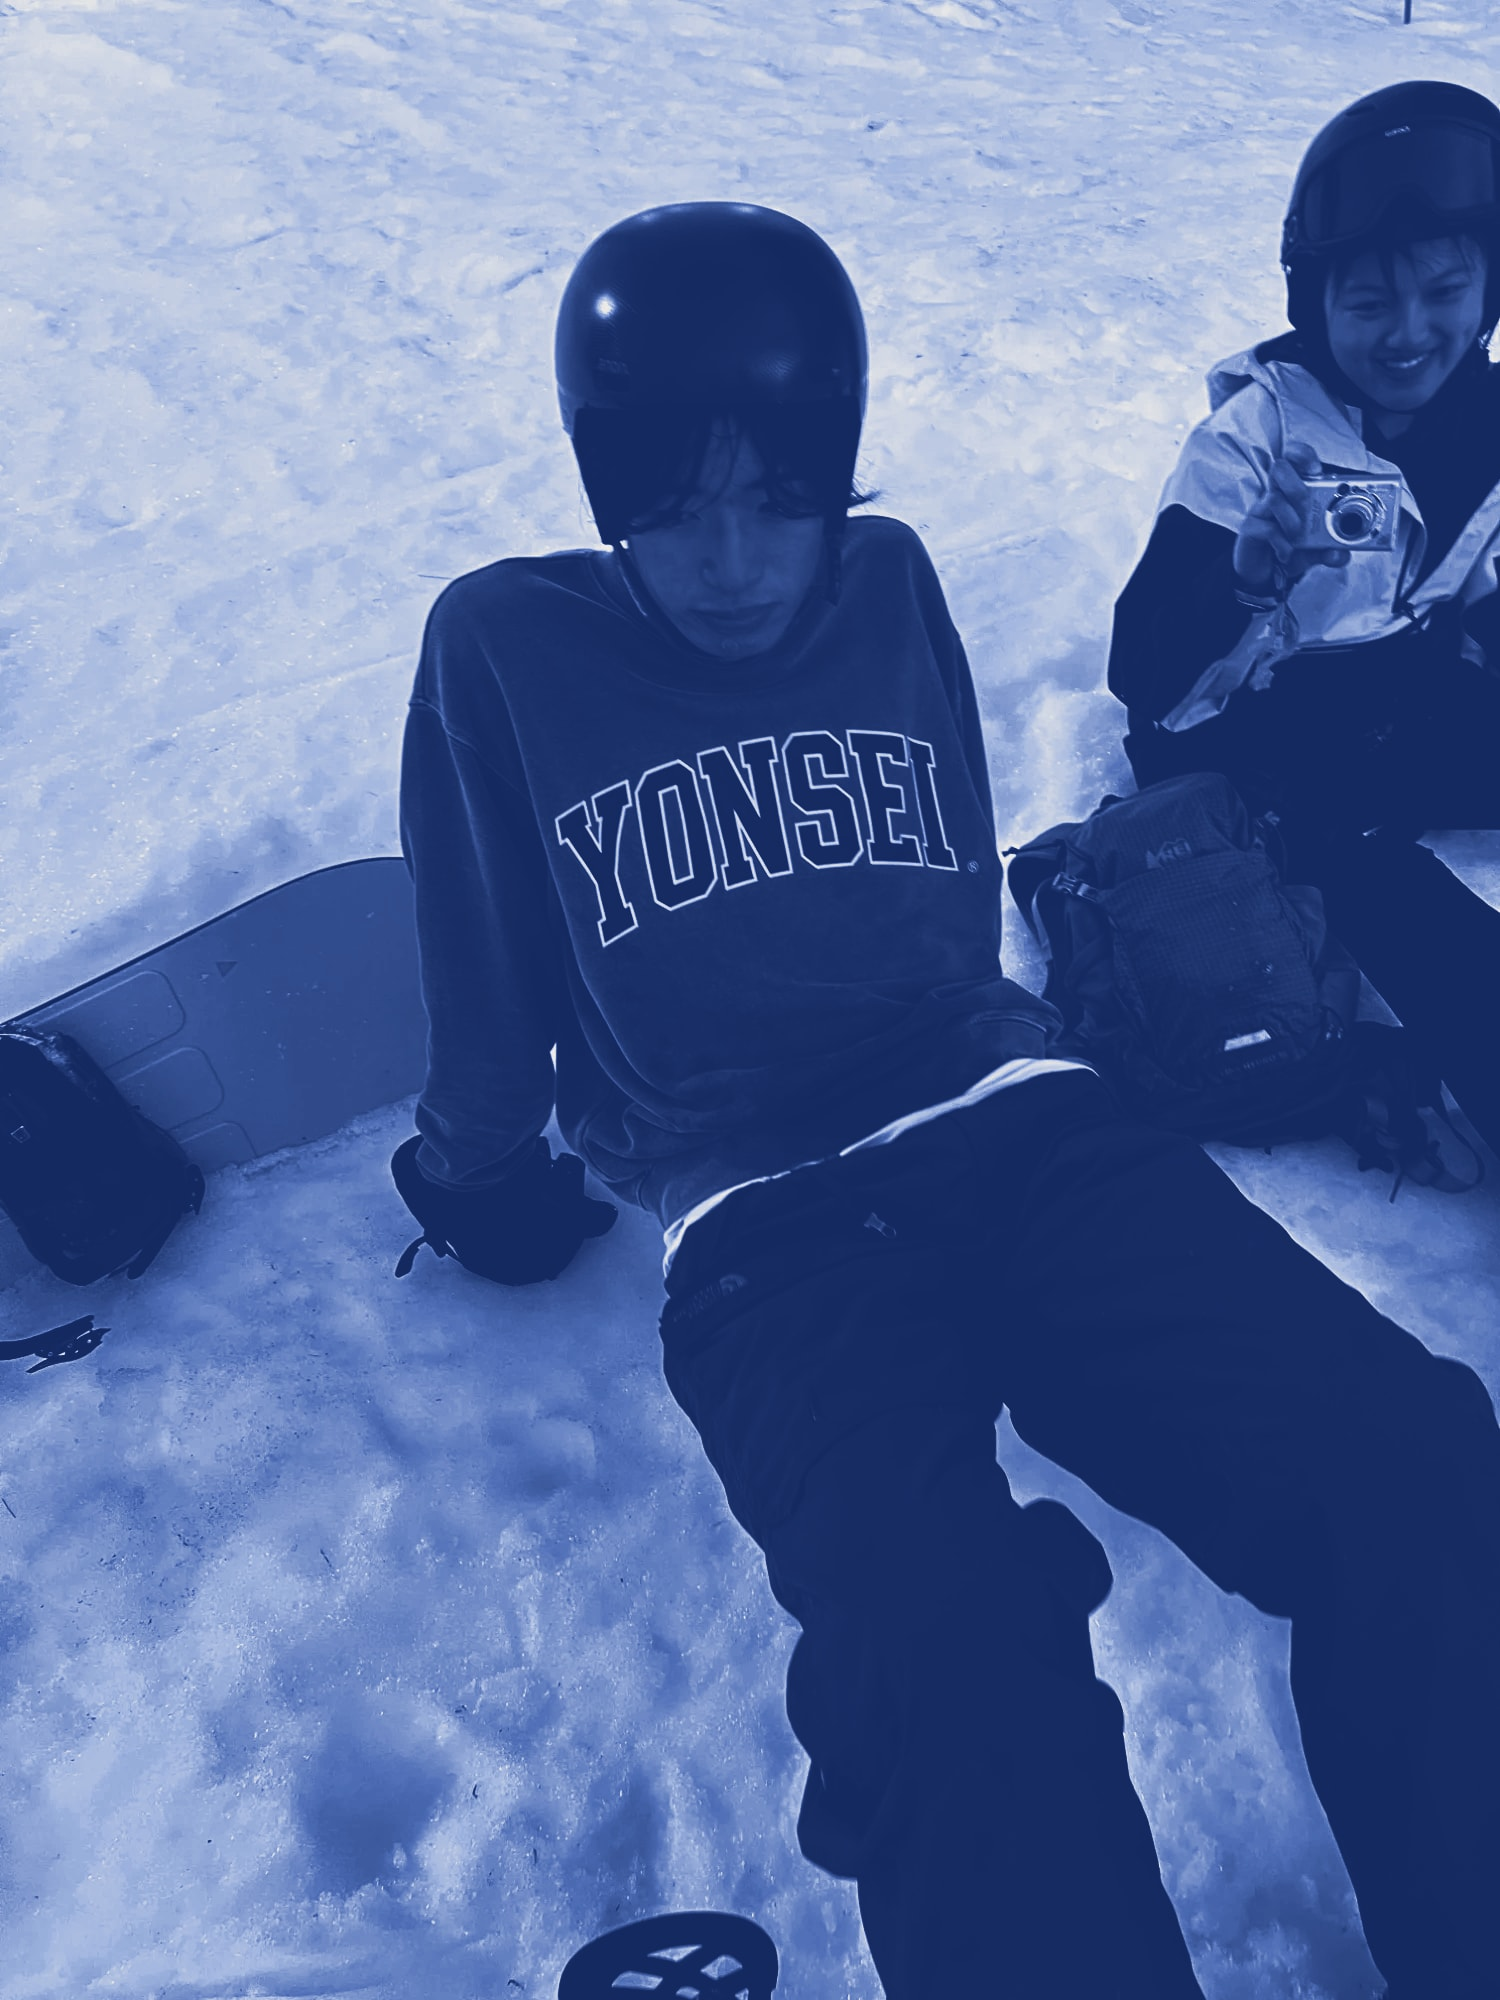
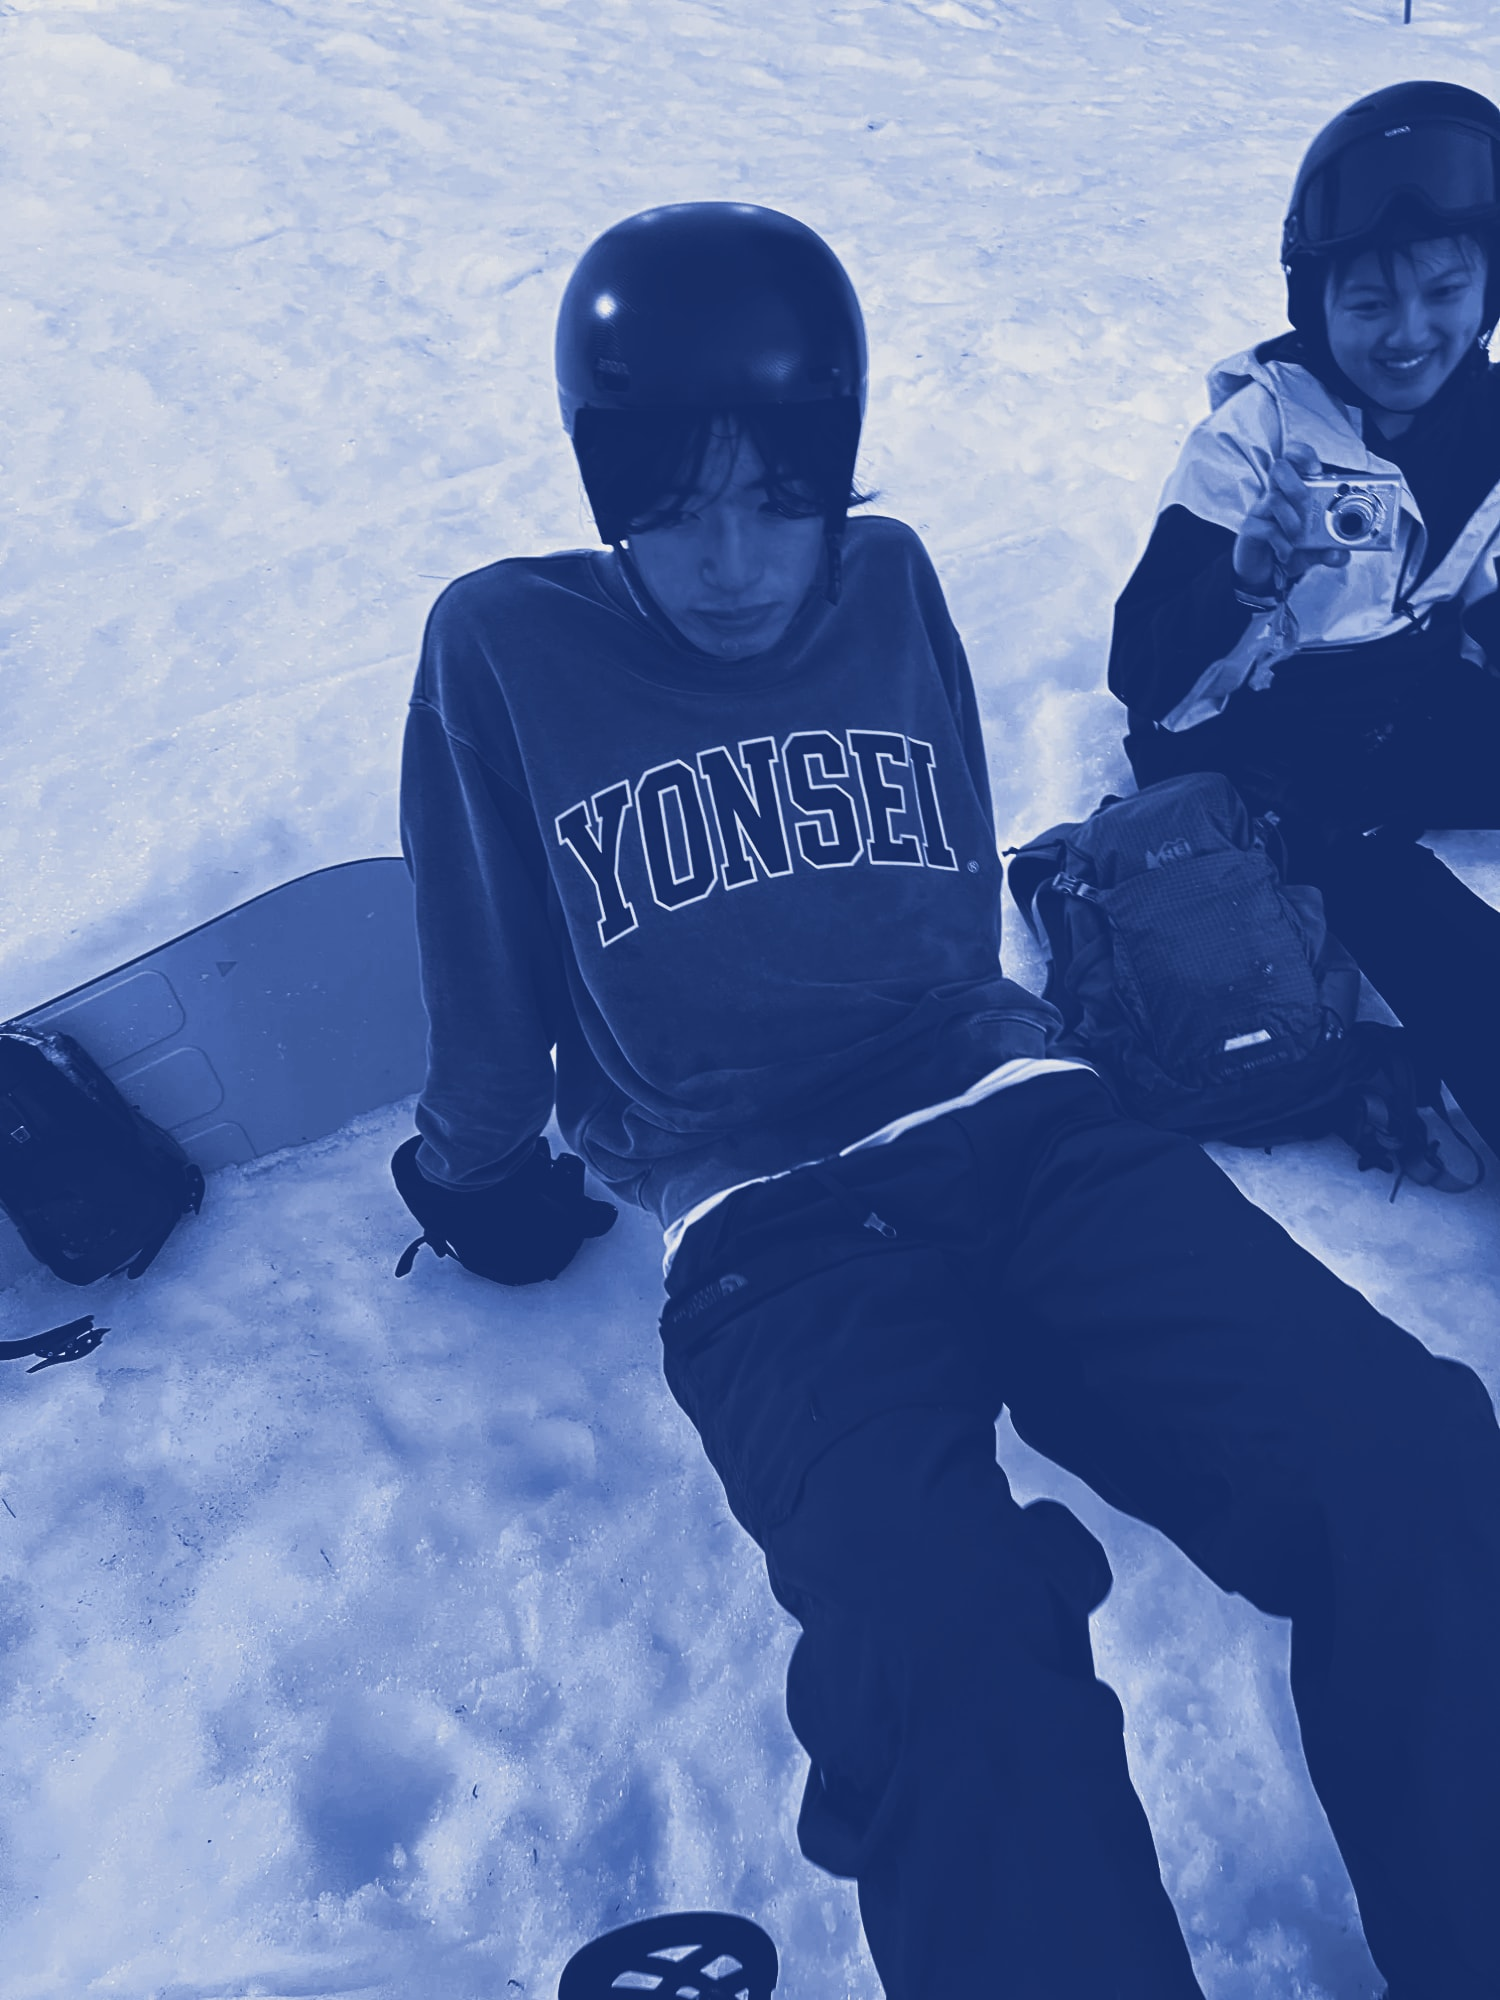
Soften the ink on headings and lighten the About prints
The desktop ink filter now has fewer, finer specks and a gentler edge, since
it read as grainy and dotted. The three Lately prints are a step lighter;
the beach photo is unchanged.

diff --git a/DESIGN.md b/DESIGN.md
@@ -212,7 +212,7 @@ One quiet reading column, after lilithyu.com/about (inspiration only). Earlier v
 2. **A photo:** Ian at Crissy Field at sunset, printed as a cyanotype with `scripts/print-photo.mjs`. The script maps grey to Prussian blue shadows, cerulean midtones and paper highlights, with a gentle S-curve. It also writes a warm black and white alternative (`ian-beach-bw.jpg`). Use the script for any future photo, so every photo on the site is printed the same way. It is cropped to 2:1, keeping Ian, the bridge and the beach and dropping empty sky, with `--r-m` corners. From 768 it shares the text's left edge and is 80% of the column wide, ending short of the text's right edge, so the column isn't rigid. Ian wants the left edges aligned for cohesion.
 3. **The greeting:** "Hi, I'm Ian." in italic serif, the page's only animated line.
 4. **Text:** a short paragraph of design background (Fine Arts to product design; Moober and Buzzit), one line on sports with friends and good food, then **Off the clock**: a `.label` and `.ab__list`, three fun facts as a plain list with small blue dots (Tottenham, FL Studio, trips on a whim). Modelled on lilithyu.com/about. Keep design talk to that one paragraph.
-5. **Lately:** a `.label` and a `.gallery` row of three portrait prints at 3:4, with one-word captions (Eating, Snowboarding, Wandering). Below 640 the first print is full width and the other two sit side by side. They are printed darker than the default to match the beach photo's deep blue: `scripts/print-photo.mjs <in> <out> 2.7`, or 3.3 for snow. An earlier version linked words in a sentence to the prints on hover; Ian replaced it with plain copy. Any photo added here goes through `scripts/print-photo.mjs` first.
+5. **Lately:** a `.label` and a `.gallery` row of three portrait prints at 3:4, with one-word captions (Eating, Snowboarding, Wandering). Below 640 the first print is full width and the other two sit side by side. They are printed darker than the default to match the beach photo's deep blue: `scripts/print-photo.mjs <in> <out> 2.2`, or 2.7 for snow. 2.7 and 3.3 read too dark. An earlier version linked words in a sentence to the prints on hover; Ian replaced it with plain copy. Any photo added here goes through `scripts/print-photo.mjs` first.
 6. **Contact:** Email · LinkedIn · Résumé in mono, then the closing note.
 
 ---
@@ -385,6 +385,7 @@ The canvases and cursor live in `Base.astro` with `transition:persist`, so they 
 
 ## Recent rules (October 2026)
 
+- **Ink on desktop.** The ink is kept gentle, with displacement 1.4, fine specks at frequency 2 and a hole threshold of 2.52. The original (1.75 / 1.6 / 2.3) read as grainy and dotted.
 - **Ink on phones.** Below 768, serif lines use `#ink-m` and `#ink-w-m`: a finer, gentler version of the ink with almost no holes. Ian found the full grain too coarse at phone sizes.
 - **Projects without a case study.** Mark them `soon: true` with no `href` in `projects.ts`. The cover and name stop being links, the text link becomes a grey "Case study coming soon", and the cursor pill says "Coming soon" as soon as the pointer enters. It follows whichever project the scene is showing.
 - **Screens on phones.** Below 640, `.compare__panel` and `.shot-panel` pad by `--s-2`, so the UI gets the width.
